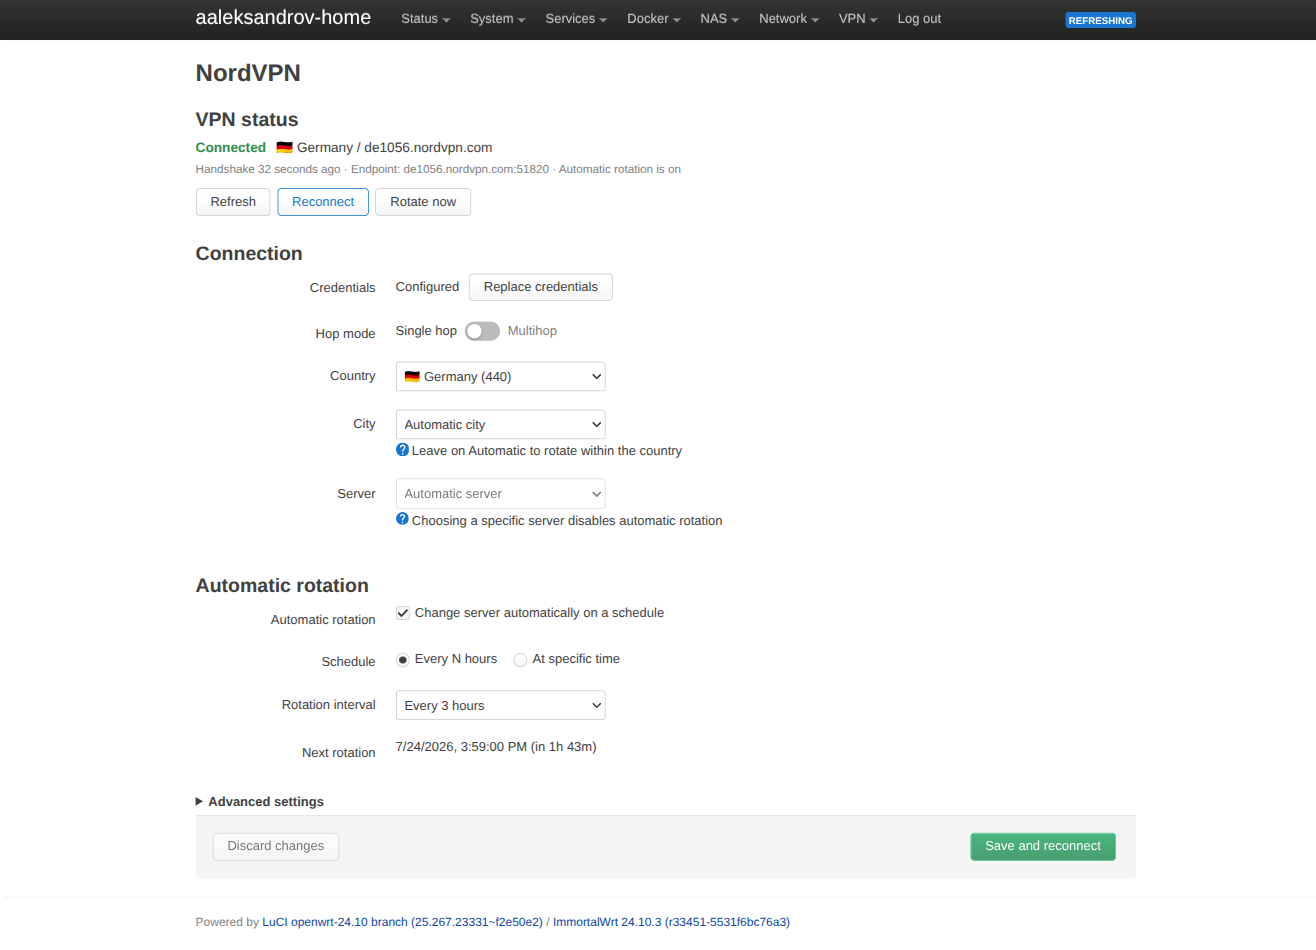
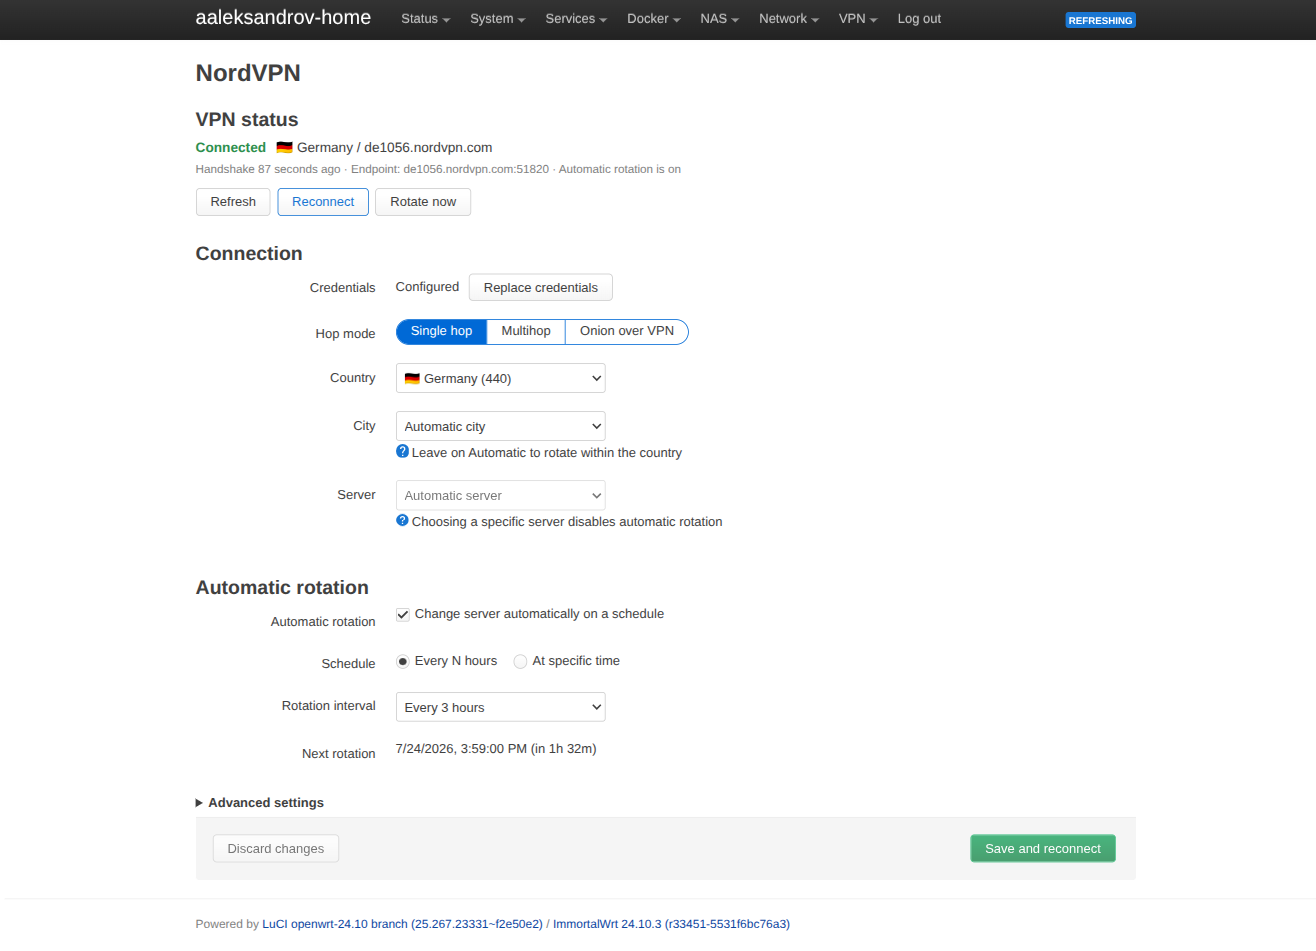
Separate Onion Over VPN servers into an explicit hop mode
NordVPN's Onion Over VPN servers (cc-onionNN.nordvpn.com) were listed as
ordinary single-hop servers, so automatic selection or rotation could
silently route all traffic through Tor. Classify them in the cache
(with a hostname fallback for caches written before the flag existed),
keep them out of both the single and multihop pools, and accept
hop_mode 'onion' so using Tor is always a conscious choice.

The Hop mode toggle becomes a three-way segmented control (Single hop /
Multihop / Onion over VPN) with a per-mode hint explaining that the
multihop country is the exit country and that Onion exits through Tor;
the status band shows an Onion badge while connected to one. Update the
README and screenshots accordingly.

diff --git a/luci-app-nordvpn/htdocs/luci-static/resources/view/nordvpn/overview.js b/luci-app-nordvpn/htdocs/luci-static/resources/view/nordvpn/overview.js
@@ -31,14 +31,10 @@ var STYLE = '' +
 	'.nv-radio-group{display:flex;align-items:center;gap:1.25em;flex-wrap:wrap;min-height:1.9em}' +
 	'.nv-radio-group label{display:inline-flex;align-items:center;gap:.4em;margin:0;font-weight:normal}' +
 	'.nv-check{display:inline-flex;align-items:center;gap:.4em;font-weight:normal}' +
-	'.nv-switch{position:relative;display:inline-block;width:2.7em;height:1.45em;flex:none;margin:0}' +
-	'.nv-switch input{opacity:0;width:0;height:0;position:absolute}' +
-	'.nv-slider{position:absolute;inset:0;background:#bbb;border-radius:1.45em;transition:.2s;cursor:pointer}' +
-	'.nv-slider:before{content:"";position:absolute;height:1.1em;width:1.1em;left:.2em;top:50%;transform:translateY(-50%);background:#fff;border-radius:50%;transition:.2s;box-shadow:0 1px 2px rgba(0,0,0,.35)}' +
-	'.nv-switch input:checked+.nv-slider{background:#0069d6}' +
-	'.nv-switch input:checked+.nv-slider:before{left:calc(100% - 1.3em)}' +
-	'.nv-switch-side{cursor:pointer}' +
-	'.nv-dim{color:var(--text-color-medium,#999)}' +
+	'.nv-seg{display:inline-flex;border:1px solid #0069d6;border-radius:1.2em;overflow:hidden}' +
+	'.nv-seg button{border:0;background:transparent;margin:0;padding:.3em 1.1em;cursor:pointer;font:inherit;color:inherit;line-height:1.3}' +
+	'.nv-seg button+button{border-left:1px solid #0069d6}' +
+	'.nv-seg button.active{background:#0069d6;color:#fff}' +
 	'.nv-token-field>div{display:block;width:100%}' +
 	'.nv-token-field .control-group{display:flex;width:100%}' +
 	'.nv-token-field .control-group input{flex:1 1 auto;width:100%}' +
@@ -140,6 +136,8 @@ return view.extend({
 			details.push(hs);
 		if (s.endpoint)
 			details.push(_('Endpoint: %s').format(s.endpoint));
+		if (s.gateway && /^[a-z]{2}-onion/.test(s.gateway))
+			details.push(_('🧅 Onion over VPN'));
 		if (s.rotation && s.rotation.enabled)
 			details.push(_('Automatic rotation is on'));
 
@@ -259,11 +257,19 @@ return view.extend({
 		this.serverSel = E('select', { class: 'cbi-input-select', change: L.bind(this.onServerChange, this), disabled: true });
 
 		var hop = uci.get('nordvpn', 'main', 'hop_mode') || 'single';
-		this.hopToggle = E('input', { type: 'checkbox', change: L.bind(this.onHopChange, this) });
-		this.hopToggle.checked = (hop === 'multihop');
-		this.hopSingleLbl = E('span', { class: 'nv-switch-side', click: L.bind(this.setHopMode, this, false) }, _('Single hop'));
-		this.hopMultiLbl = E('span', { class: 'nv-switch-side', click: L.bind(this.setHopMode, this, true) }, _('Multihop'));
-		this.updateHopLabels();
+		this.hopValue = (hop === 'multihop' || hop === 'onion') ? hop : 'single';
+		this.hopButtons = {};
+		var seg = E('div', { class: 'nv-seg' }, [
+			[ 'single', _('Single hop') ],
+			[ 'multihop', _('Multihop') ],
+			[ 'onion', _('Onion over VPN') ]
+		].map(L.bind(function(o) {
+			var b = E('button', { type: 'button', click: L.bind(this.setHopMode, this, o[0]) }, o[1]);
+			this.hopButtons[o[0]] = b;
+			return b;
+		}, this)));
+		this.hopNote = E('div', { class: 'cbi-value-description' });
+		this.updateHopButtons();
 
 		this.locNote = E('div', { class: 'cbi-value-description hidden' });
 
@@ -271,13 +277,7 @@ return view.extend({
 			E('legend', {}, _('Connection')),
 			E('div', { class: 'cbi-section-node' }, [
 				this.row(_('Credentials'), [ E('div', { class: 'nv-inline' }, [ credState, credBtn ]) ]),
-				this.row(_('Hop mode'), [
-					E('div', { class: 'nv-inline', style: 'gap:.6em;min-height:1.9em' }, [
-						this.hopSingleLbl,
-						E('label', { class: 'nv-switch' }, [ this.hopToggle, E('span', { class: 'nv-slider' }) ]),
-						this.hopMultiLbl
-					])
-				]),
+				this.row(_('Hop mode'), [ seg, this.hopNote ]),
 				this.row(_('Country'), [ this.countrySel, this.locNote ]),
 				this.row(_('City'), [ this.citySel ], _('Leave on Automatic to rotate within the country')),
 				this.row(_('Server'), [ this.serverSel ], _('Choosing a specific server disables automatic rotation'))
@@ -425,33 +425,47 @@ return view.extend({
 	/* ---- selection ---------------------------------------------------- */
 
 	hopMode: function() {
-		return this.hopToggle && this.hopToggle.checked ? 'multihop' : 'single';
+		return this.hopValue || 'single';
 	},
 
-	setHopMode: function(multi) {
-		if (this.hopToggle && this.hopToggle.checked !== multi) {
-			this.hopToggle.checked = multi;
-			this.onHopChange();
+	// Key of the per-mode gateway counters in the locations tree.
+	hopCountKey: function() {
+		var m = this.hopMode();
+		return m === 'multihop' ? 'multi' : (m === 'onion' ? 'onion' : 'single');
+	},
+
+	setHopMode: function(mode) {
+		if (this.hopValue === mode)
+			return;
+		this.hopValue = mode;
+		this.onHopChange();
+	},
+
+	updateHopButtons: function() {
+		var mode = this.hopMode();
+		for (var k in this.hopButtons)
+			this.hopButtons[k].classList.toggle('active', k === mode);
+		if (this.hopNote) {
+			var notes = {
+				multihop: _('Country is the exit country (your visible IP); traffic enters through the partner country shown in the server name.'),
+				onion: _('Traffic leaves the VPN server through the Tor network. Noticeably slower, and some sites block Tor exits.')
+			};
+			dom.content(this.hopNote, notes[mode] || '');
+			this.hopNote.classList.toggle('hidden', !notes[mode]);
 		}
-	},
-
-	updateHopLabels: function() {
-		var multi = (this.hopMode() === 'multihop');
-		if (this.hopSingleLbl) this.hopSingleLbl.classList.toggle('nv-dim', multi);
-		if (this.hopMultiLbl) this.hopMultiLbl.classList.toggle('nv-dim', !multi);
 	},
 
 	filteredCountries: function() {
 		var l = this.locations || {};
 		if (!Array.isArray(l.countries))
 			return [];
-		var multi = (this.hopMode() === 'multihop');
+		var key = this.hopCountKey();
 		var out = [];
 		l.countries.forEach(function(c) {
 			var cities = (c.cities || []).filter(function(city) {
-				return (multi ? city.multi : city.single) > 0;
+				return (city[key] || 0) > 0;
 			});
-			var count = multi ? c.multi : c.single;
+			var count = c[key] || 0;
 			if (cities.length && count > 0)
 				out.push(Object.assign({}, c, { cities: cities, gateway_count: count }));
 		});
@@ -498,11 +512,11 @@ return view.extend({
 		this._cityData = {};
 
 		if (c) {
+			var key = this.hopCountKey();
 			(c.cities || []).forEach(L.bind(function(city) {
 				this._cityData[city.code] = city;
-				var ccount = (this.hopMode() === 'multihop') ? city.multi : city.single;
 				this.citySel.appendChild(E('option', { value: city.code, selected: (city.code === chosenCity) || null },
-					'%s (%d)'.format(city.name, ccount)));
+					'%s (%d)'.format(city.name, city[key] || 0)));
 			}, this));
 		}
 		this.onCityChange();
@@ -538,7 +552,7 @@ return view.extend({
 
 	onHopChange: function() {
 		this.markDirty();
-		this.updateHopLabels();
+		this.updateHopButtons();
 		this.populateCountries();
 	},
 

diff --git a/README.md b/README.md
@@ -95,16 +95,29 @@ Installing `nordvpn-wireguard` alone gives a working CLI/service; add
 
    ![Credentials dialog](docs/screenshots/credentials-modal.png)
 
-3. Pick **Country** (required), optionally **City** and **Server**. Country
+3. Pick a **Hop mode**:
+   - **Single hop** — a regular VPN server.
+   - **Multihop** (Double VPN) — the selected country is the **exit** country
+     (your visible IP); traffic enters through the partner country shown in the
+     server name ("United Kingdom - Netherlands #10" enters in the UK and exits
+     in the Netherlands).
+   - **Onion over VPN** — traffic leaves the VPN server through the Tor
+     network. Noticeably slower, and some sites block Tor exit nodes. These
+     servers never appear in the other modes, so Tor is always an explicit
+     choice.
+
+   ![Onion over VPN mode](docs/screenshots/onion-mode.png)
+
+4. Pick **Country** (required), optionally **City** and **Server**. Country
    names carry emoji flags (plain names on systems without flag glyphs). Leave
    City and Server on *Automatic* to rotate within the country.
-4. Optionally enable **Automatic rotation** and a schedule. When rotation is
+5. Optionally enable **Automatic rotation** and a schedule. When rotation is
    active the page shows the concrete **Next rotation** time (router-scheduled,
    shown in your browser's local time zone).
 
    ![Automatic rotation](docs/screenshots/rotation.png)
 
-5. Click **Save and reconnect**.
+6. Click **Save and reconnect**.
 
 Get a token at
 <https://my.nordaccount.com/dashboard/nordvpn/manual-configuration/> →
@@ -122,7 +135,7 @@ config settings 'main'
 	option enabled '0'
 	option interface 'nordvpn'
 	option routing_table ''
-	option hop_mode 'single'          # or 'multihop'
+	option hop_mode 'single'          # 'multihop' (Double VPN) / 'onion' (via Tor)
 	option country_code 'ee'
 	option city_code 'ee-tallinn'
 	option fixed_server ''            # pin a gateway; disables rotation
